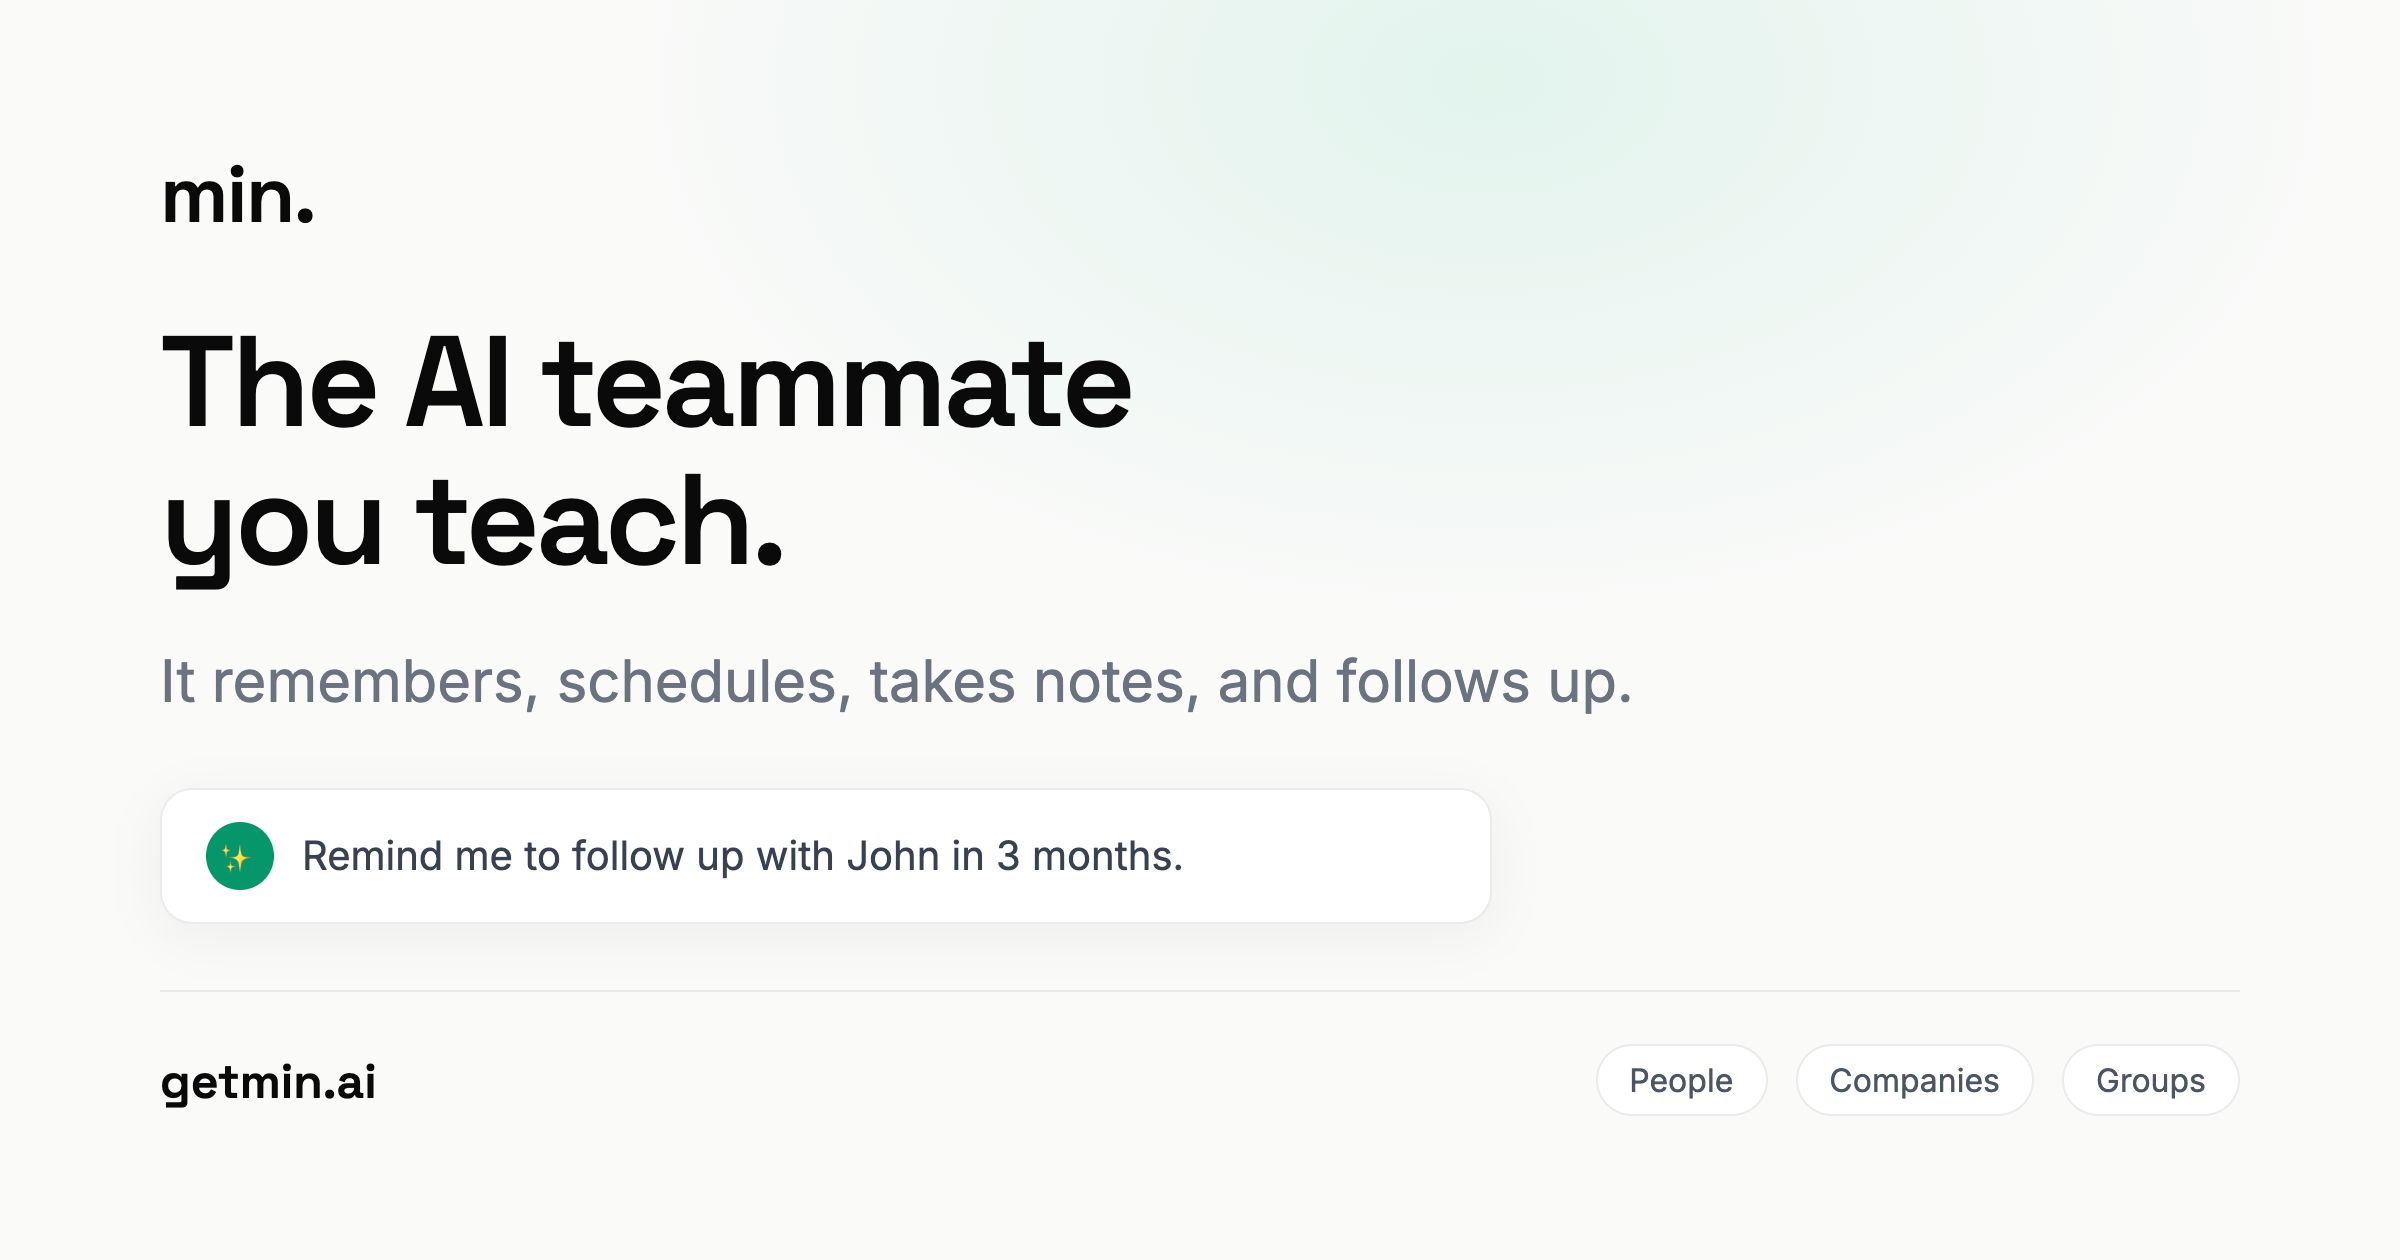
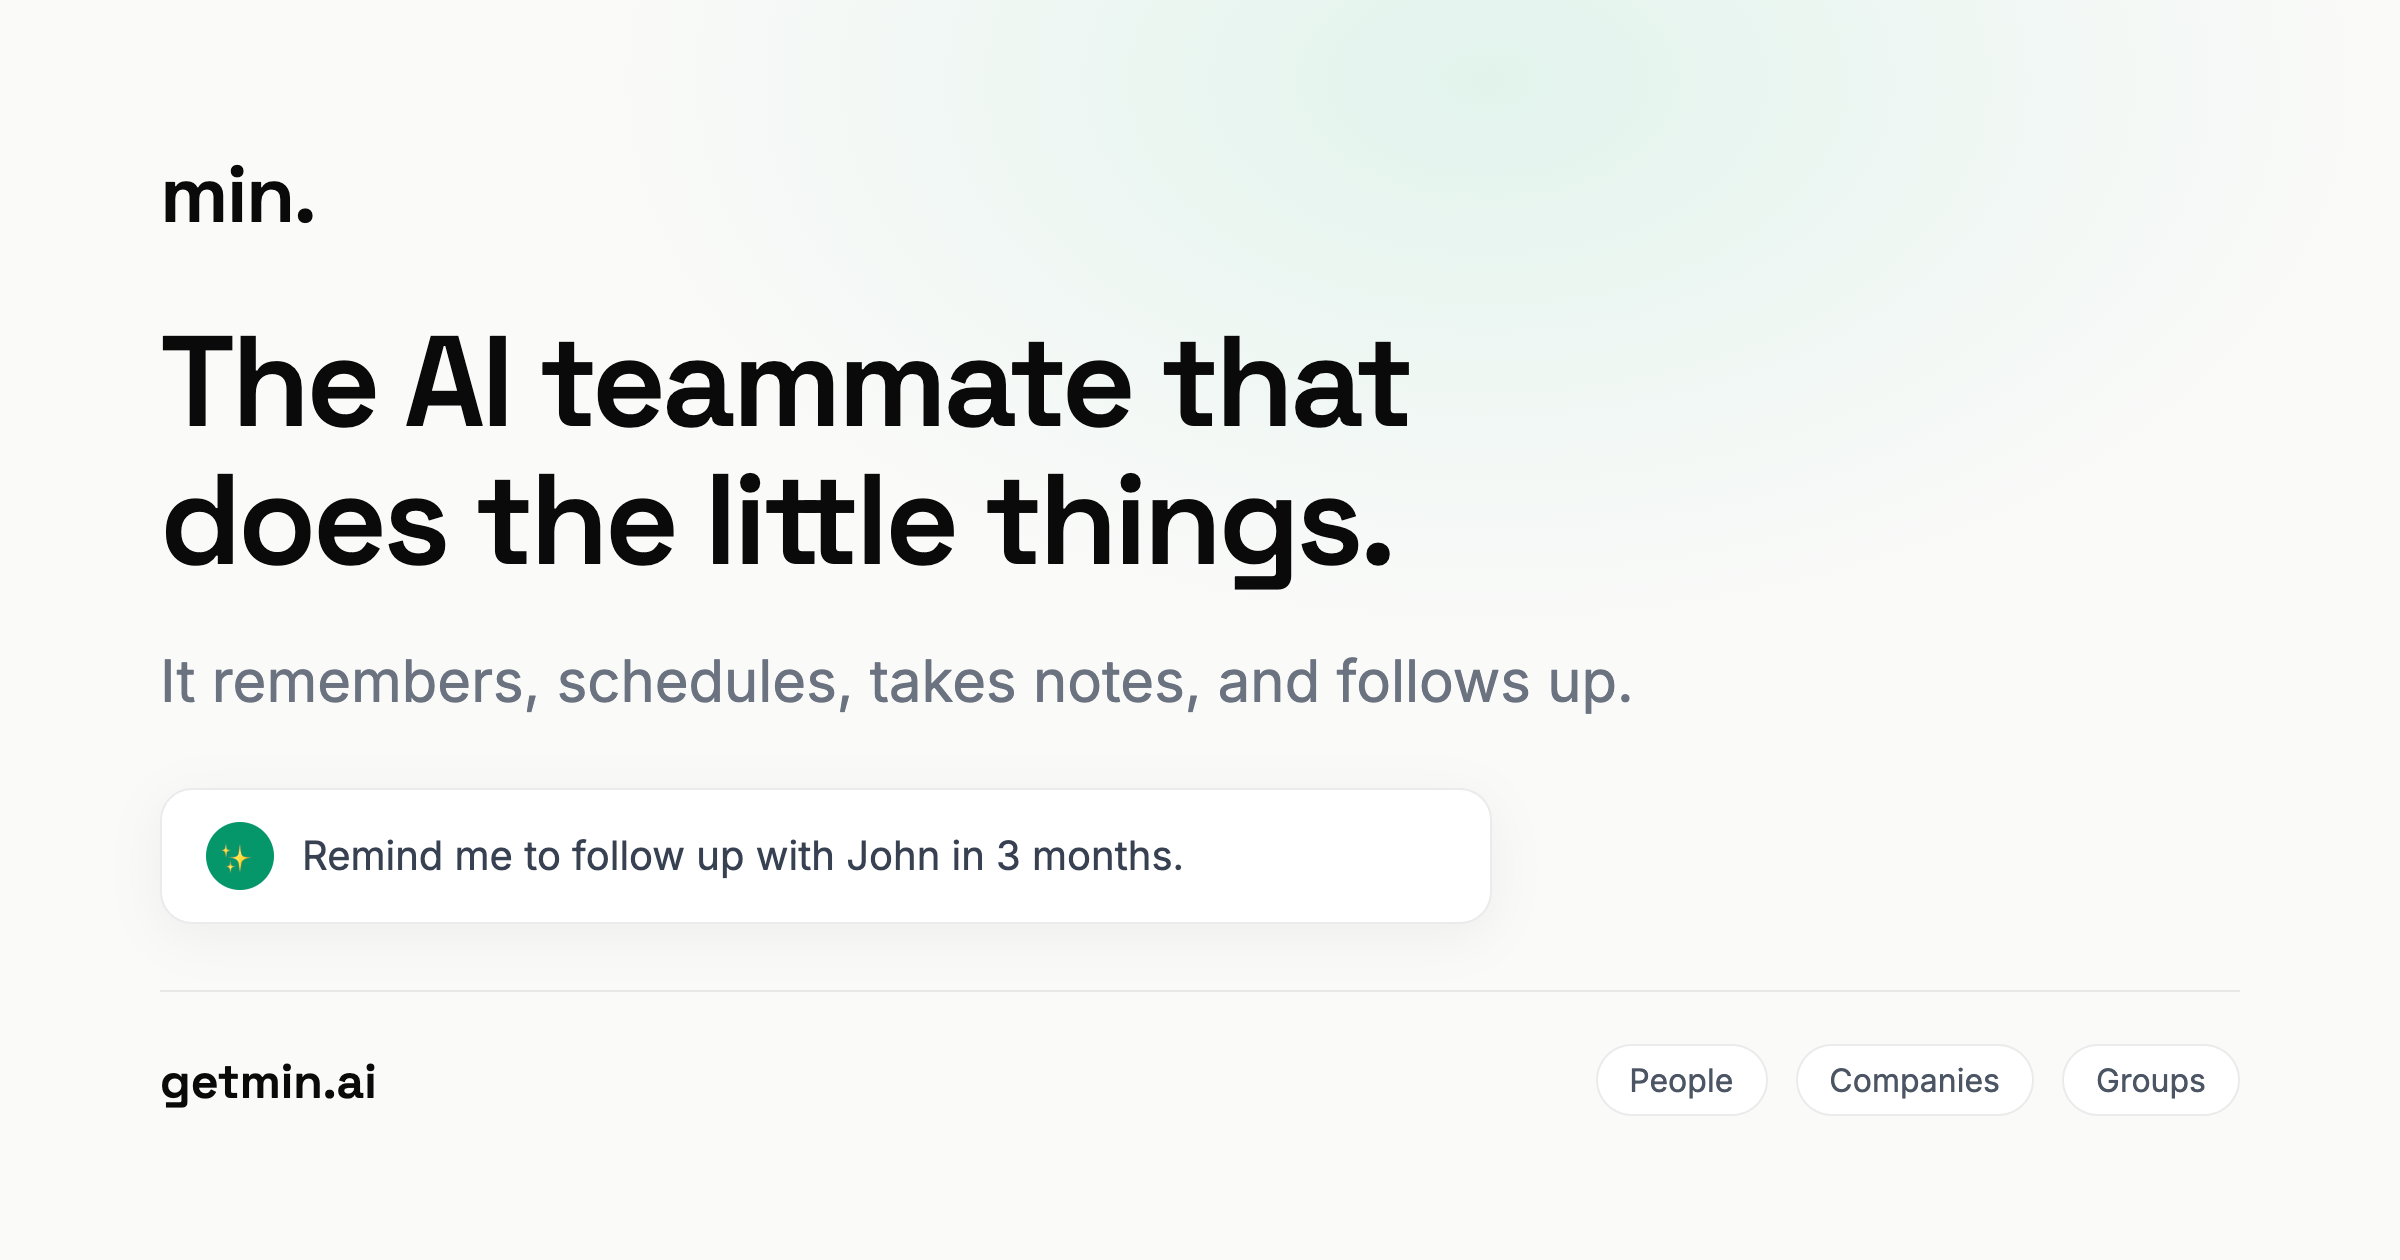
OG card actually gets the new headline
The blanket tagline swap reported zero hits on the OG template and the zero
got read past: the headline was split across a <br>, so the contiguous string
never matched, and the card was regenerated still saying "you teach". Fixed
with an assertion this time, on both the replace and the absence of the old
line.

Changed region(s): [[0.0625, 0.3714, 0.5938, 0.4643], [0.4688, 0.2786, 0.5938, 0.3405]]

diff --git a/public/og-image.html b/public/og-image.html
@@ -148,7 +148,7 @@
             <div>
                 <div class="logo">min.</div>
                 <div class="headline">
-                    The AI teammate<br>you teach.
+                    The AI teammate that<br>does the little things.
                 </div>
                 <div class="subheadline">
                     It remembers, schedules, takes notes, and follows up.
